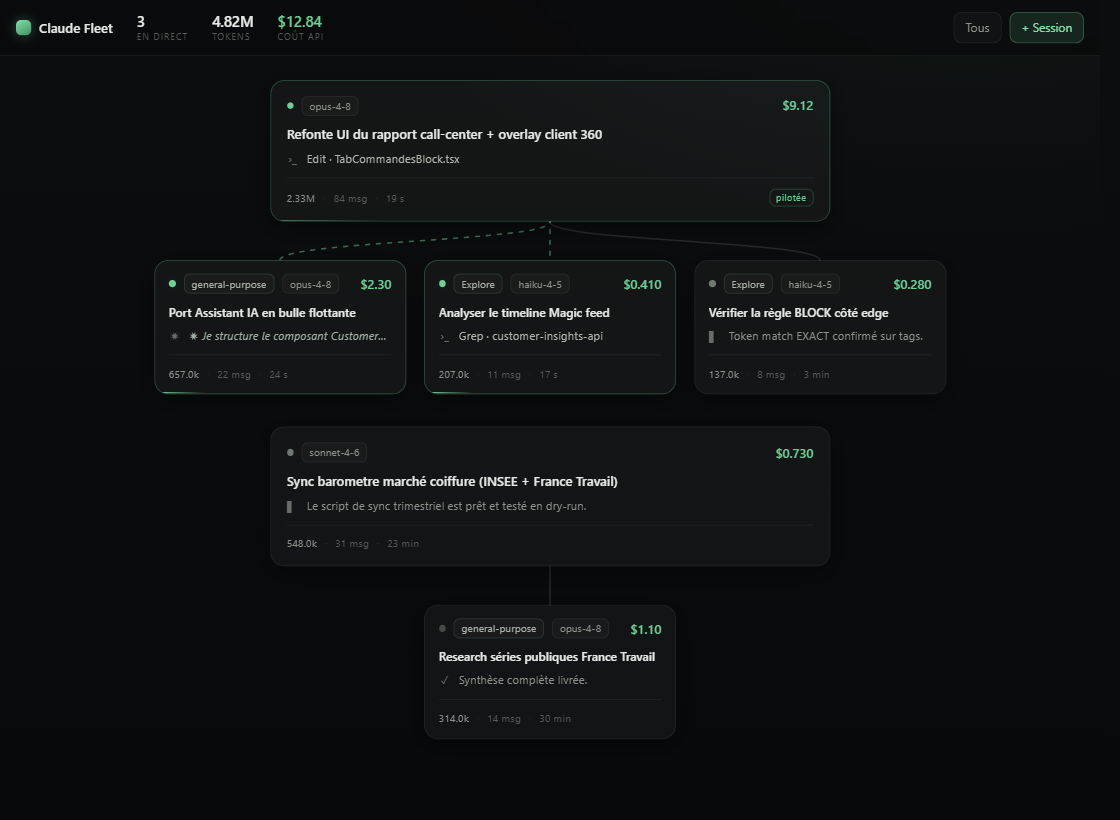
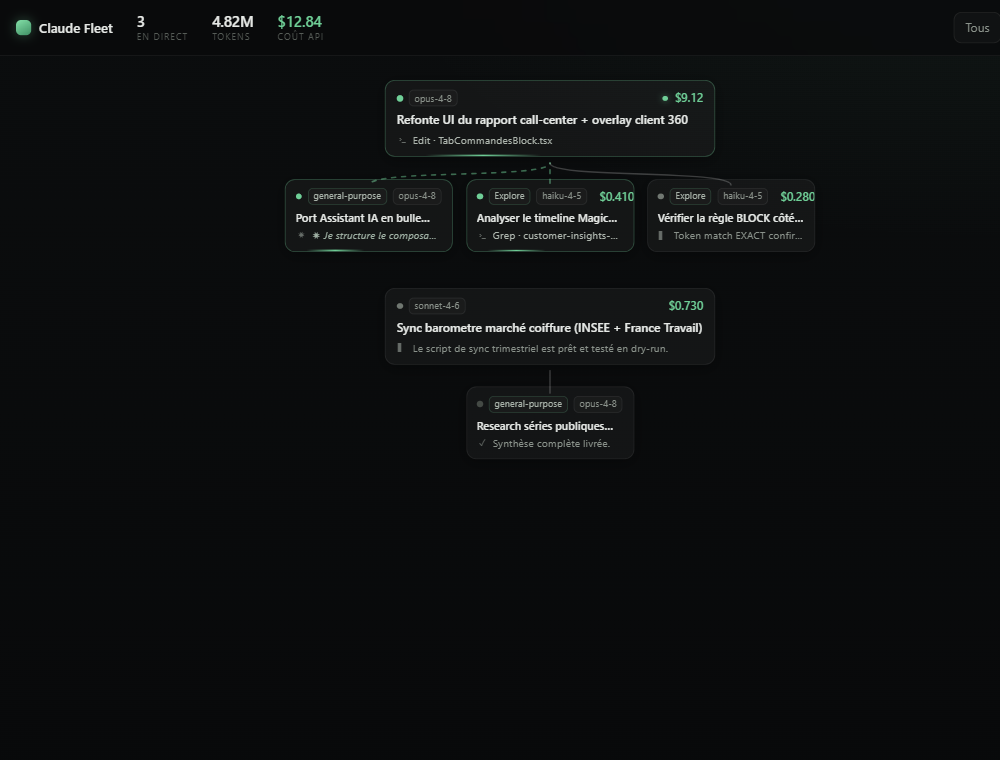
feat: bulles compactes + arbre d'agents complet + detection live elargie
- watcher: une session visible affiche TOUT son arbre d'agents (meme anciens) -> liens parent-enfant toujours rendus
- watcher: masque les sessions terminees (>fenetre active), resume recalcule sur le visible
- liveWindow 30s -> 120s (transcript vide aux fins de tour)
- UI: bulles bcp plus petites/simples (type+cout+titre+activite), tokens/temps deplaces vers le drawer, point 'pilotee' discret
- connecteurs plus lisibles

diff --git a/media/style.css b/media/style.css
@@ -91,75 +91,76 @@ button.primary:hover { background: rgba(111, 207, 151, 0.2); border-color: rgba(
 #stage::-webkit-scrollbar { width: 9px; }
 #stage::-webkit-scrollbar-thumb { background: rgba(255,255,255,0.06); border-radius: 6px; }
 #links { position: absolute; top: 0; left: 0; pointer-events: none; z-index: 1; }
-#bubbles { position: relative; z-index: 2; display: flex; flex-direction: column; gap: var(--s6); }
+#bubbles { position: relative; z-index: 2; display: flex; flex-direction: column; gap: 36px; }
 
-.group { display: flex; flex-direction: column; align-items: center; gap: 38px; }
+.group { display: flex; flex-direction: column; align-items: center; gap: 22px; }
 .group-head { display: flex; justify-content: center; width: 100%; }
-.group-agents { display: flex; flex-wrap: wrap; gap: var(--s4) 18px; justify-content: center; width: 100%; }
+.group-agents { display: flex; flex-wrap: wrap; gap: 12px 13px; justify-content: center; width: 100%; }
 .group-agents:empty { display: none; }
 
-/* ---------- Bubble ---------- */
+/* ---------- Bubble (compact) ---------- */
 .bubble {
-  position: relative; border-radius: var(--radius);
+  position: relative; border-radius: var(--radius-sm);
   border: 1px solid var(--border);
   background: var(--surface-2);
-  box-shadow: var(--shadow);
-  padding: 15px 16px; cursor: pointer;
-  transition: border-color 0.18s var(--ease), background 0.18s var(--ease), transform 0.18s var(--ease);
-  animation: enter 0.34s var(--ease) backwards;
+  box-shadow: 0 3px 14px rgba(0, 0, 0, 0.32);
+  padding: 9px 11px; cursor: pointer;
+  transition: border-color 0.16s var(--ease), background 0.16s var(--ease);
+  animation: enter 0.3s var(--ease) backwards;
   overflow: hidden;
 }
 .bubble:hover { background: var(--surface-hover); border-color: var(--border-2); }
-.bubble.leaving { animation: leave 0.26s ease forwards; pointer-events: none; }
-.bubble.session { width: min(560px, 100%); }
-.bubble.agent { width: 252px; padding: 13px 14px; }
+.bubble.leaving { animation: leave 0.24s ease forwards; pointer-events: none; }
+.bubble.session { width: min(330px, 100%); }
+.bubble.agent { width: 168px; padding: 8px 10px; }
 
 /* live emphasis — the only place the accent glows */
-.bubble.live-emph { border-color: rgba(111, 207, 151, 0.28); }
+.bubble.live-emph { border-color: rgba(111, 207, 151, 0.3); }
 .bubble.live-emph::after {
   content: ""; position: absolute; inset: -1px; border-radius: inherit; pointer-events: none;
-  box-shadow: inset 0 0 0 1px rgba(111, 207, 151, 0.12), 0 0 22px -6px rgba(111, 207, 151, 0.3);
+  box-shadow: 0 0 16px -5px rgba(111, 207, 151, 0.32);
 }
 
-.b-top { display: flex; align-items: center; gap: var(--s2); margin-bottom: 10px; min-height: 18px; }
-.dot { width: 7px; height: 7px; border-radius: 50%; flex: none; }
+.b-top { display: flex; align-items: center; gap: 6px; margin-bottom: 5px; min-height: 15px; }
+.dot { width: 6px; height: 6px; border-radius: 50%; flex: none; }
 .dot.live { background: var(--live); box-shadow: 0 0 0 0 rgba(111,207,151,0.5); animation: pulse 2s infinite; }
 .dot.idle { background: var(--idle); }
 .dot.done { background: var(--done); }
 
 .chip {
-  font-size: 10px; padding: 2px 7px; border-radius: 6px;
+  font-size: 9px; padding: 1px 5px; border-radius: 5px;
   border: 1px solid var(--border); color: var(--muted); white-space: nowrap;
   background: var(--surface); letter-spacing: 0.1px;
 }
 .chip.model { color: var(--muted); font-variant-numeric: tabular-nums; }
-.chip.agenttype { color: #a9b3aa; border-color: rgba(111,207,151,0.18); }
+.chip.agenttype { color: #a9b3aa; border-color: rgba(111,207,151,0.2); }
 .b-spacer { flex: 1; }
-.b-cost { font-variant-numeric: tabular-nums; font-weight: 600; color: var(--green); font-size: 13px; letter-spacing: -0.2px; }
+.managed-dot { width: 5px; height: 5px; border-radius: 50%; background: var(--green); box-shadow: 0 0 6px rgba(111,207,151,0.55); flex: none; margin-right: 1px; }
+.b-cost { font-variant-numeric: tabular-nums; font-weight: 600; color: var(--green); font-size: 12px; letter-spacing: -0.2px; }
 .b-cost.approx::before { content: "≈"; opacity: 0.6; margin-right: 1px; font-weight: 500; }
 
 .b-title {
-  font-weight: 600; font-size: 13px; line-height: 1.35; margin: 0 0 7px; color: var(--text);
+  font-weight: 600; font-size: 12px; line-height: 1.32; margin: 0 0 4px; color: var(--text);
   display: -webkit-box; -webkit-line-clamp: 2; -webkit-box-orient: vertical; overflow: hidden;
 }
-.bubble.agent .b-title { font-size: 12px; }
+.bubble.agent .b-title { font-size: 11px; -webkit-line-clamp: 1; margin-bottom: 3px; }
 
-.b-activity { display: flex; align-items: center; gap: var(--s2); color: var(--muted); font-size: 11.5px; min-height: 16px; }
-.b-activity .act-ico { flex: none; opacity: 0.7; width: 12px; text-align: center; }
+.b-activity { display: flex; align-items: center; gap: 5px; color: var(--muted); font-size: 10.5px; min-height: 14px; }
+.b-activity .act-ico { flex: none; opacity: 0.7; width: 11px; text-align: center; font-size: 9px; }
 .b-activity .act-text { overflow: hidden; text-overflow: ellipsis; white-space: nowrap; flex: 1; }
 .b-activity.thinking .act-text { color: #9fb0a4; font-style: italic; }
 .b-activity.tool .act-text { color: #aeb6ae; }
 
 .b-foot {
-  display: flex; align-items: center; gap: var(--s2); margin-top: 11px;
-  padding-top: 10px; border-top: 1px solid var(--border);
-  font-size: 10.5px; color: var(--faint);
+  display: flex; align-items: center; gap: 6px; margin-top: 7px;
+  padding-top: 6px; border-top: 1px solid var(--border);
+  font-size: 9.5px; color: var(--faint);
 }
 .b-foot .tok { font-variant-numeric: tabular-nums; color: var(--muted); }
 .b-foot .sep { opacity: 0.35; }
 .b-foot .badge-managed {
-  margin-left: auto; color: var(--green); border: 1px solid rgba(111,207,151,0.28);
-  padding: 1px 6px; border-radius: 6px; font-size: 9.5px; letter-spacing: 0.2px;
+  margin-left: auto; color: var(--green); border: 1px solid rgba(111,207,151,0.3);
+  padding: 0 5px; border-radius: 5px; font-size: 8.5px; letter-spacing: 0.2px;
 }
 
 /* working: thin progress sliver, green, subtle */
@@ -172,8 +173,8 @@ button.primary:hover { background: rgba(111, 207, 151, 0.2); border-color: rgba(
 }
 
 /* ---------- SVG connectors ---------- */
-.link { fill: none; stroke: rgba(255,255,255,0.12); stroke-width: 1.5; stroke-linecap: round; transition: stroke 0.2s; }
-.link.live { stroke: var(--green-line); stroke-width: 1.6; stroke-dasharray: 4 7; animation: flow 1.1s linear infinite; }
+.link { fill: none; stroke: rgba(255,255,255,0.22); stroke-width: 1.4; stroke-linecap: round; transition: stroke 0.2s; }
+.link.live { stroke: var(--green-line); stroke-width: 1.6; stroke-dasharray: 4 6; animation: flow 1.1s linear infinite; }
 
 /* ---------- Empty ---------- */
 .empty { position: absolute; inset: 0; display: flex; flex-direction: column; align-items: center; justify-content: center; gap: var(--s2); text-align: center; }

diff --git a/src/watcher.ts b/src/watcher.ts
@@ -114,8 +114,18 @@ export class FleetWatcher {
         if (!e.isFile() || !e.name.endsWith(".jsonl")) continue;
         const filePath = path.join(proj, e.name);
         const sessionId = e.name.replace(/\.jsonl$/, "");
+
+        // Is this session recent enough to display? (gates whether we pull its agents)
+        let sessionRecent = false;
+        try {
+          sessionRecent = fs.statSync(filePath).mtimeMs >= activeCutoff;
+        } catch {
+          continue;
+        }
         this.consider(filePath, "session", sessionId, null, undefined, undefined, activeCutoff);
 
+        // A visible session shows its FULL agent tree, regardless of each agent's age.
+        if (!sessionRecent) continue;
         const subDir = path.join(proj, sessionId, "subagents");
         if (fs.existsSync(subDir)) {
           let subs: string[] = [];
@@ -128,7 +138,7 @@ export class FleetWatcher {
             const agentPath = path.join(subDir, sn);
             const agentId = sn.replace(/\.jsonl$/, "").replace(/^agent-/, "");
             const meta = readMeta(path.join(subDir, sn.replace(/\.jsonl$/, ".meta.json")));
-            this.consider(agentPath, "agent", sessionId, sessionId, agentId, meta, activeCutoff);
+            this.consider(agentPath, "agent", sessionId, sessionId, agentId, meta, Number.NEGATIVE_INFINITY);
           }
         }
       }
@@ -250,11 +260,6 @@ export class FleetWatcher {
   private emit(): void {
     const managed = this.opts.managedSessionIds();
     const nodes: FleetNode[] = [];
-    let totalCost = 0;
-    let totalTokens = 0;
-    let liveCount = 0;
-    let sessionCount = 0;
-    let agentCount = 0;
 
     for (const t of this.trackers.values()) {
       const agg = t.agg;
@@ -262,7 +267,6 @@ export class FleetWatcher {
 
       const status = this.statusOf(t.mtimeMs, agg.lastTs);
       const cost = this.opts.pricing.cost(agg.model, agg.tokens);
-      const tokens = sumTokens(agg.tokens);
       const isAgent = t.kind === "agent";
       const folder = (agg.cwd || "").split(/[\\/]/).filter(Boolean).pop() || "";
 
@@ -304,17 +308,30 @@ export class FleetWatcher {
         approx: agg.capped,
       };
       nodes.push(node);
-      totalCost += cost.total;
-      totalTokens += tokens;
-      if (status === "live") liveCount++;
-      if (isAgent) agentCount++;
-      else sessionCount++;
     }
 
-    const sessionIds = new Set(nodes.filter((n) => n.kind === "session").map((n) => n.id));
-    const filtered = nodes.filter(
-      (n) => n.kind === "session" || sessionIds.has(n.parentId || "") || n.messageCount > 0
+    // Show recent (non-"done") sessions + their FULL agent tree (any agent age).
+    const shownSessionIds = new Set(
+      nodes.filter((n) => n.kind === "session" && n.status !== "done").map((n) => n.id)
     );
+    const filtered = nodes.filter(
+      (n) =>
+        (n.kind === "session" && shownSessionIds.has(n.id)) ||
+        (n.kind === "agent" && shownSessionIds.has(n.parentId || ""))
+    );
+
+    let totalCost = 0;
+    let totalTokens = 0;
+    let liveCount = 0;
+    let sessionCount = 0;
+    let agentCount = 0;
+    for (const n of filtered) {
+      totalCost += n.cost.total;
+      totalTokens += sumTokens(n.tokens);
+      if (n.status === "live") liveCount++;
+      if (n.kind === "agent") agentCount++;
+      else sessionCount++;
+    }
 
     const summary: FleetSummary = { totalCost, totalTokens, liveCount, sessionCount, agentCount };
     this.opts.onState({

diff --git a/media/main.js b/media/main.js
@@ -95,15 +95,11 @@
         ${node.kind === "agent" ? '<span class="chip agenttype"></span>' : ""}
         <span class="chip model"></span>
         <span class="b-spacer"></span>
+        <span class="managed-dot hidden" title="Pilotée par Fleet"></span>
         <span class="b-cost" data-val="0">$0.000</span>
       </div>
       <div class="b-title"></div>
       <div class="b-activity"><span class="act-ico"></span><span class="act-text"></span></div>
-      <div class="b-foot">
-        <span class="tok" data-val="0">0</span>
-        <span class="sep">·</span><span class="msgs"></span>
-        <span class="sep">·</span><span class="seen"></span>
-      </div>
       <div class="work-bar"></div>`;
     el.addEventListener("click", () => openDrawer(node.id));
     return el;
@@ -126,24 +122,12 @@
     el.querySelector(".act-ico").textContent = actIcon(node.status === "done" ? "done" : node.activityKind);
     el.querySelector(".act-text").textContent = node.activity;
 
-    el.querySelector(".msgs").textContent = node.messageCount + " msg";
-    el.querySelector(".seen").textContent = timeAgo(node.lastTs);
-
     const costEl = el.querySelector(".b-cost");
     costEl.classList.toggle("approx", !!node.approx);
     costEl.title = node.approx ? "Coût partiel (transcript volumineux lu depuis la fin)" : "";
     tween(costEl, node.cost.total, fmtCost);
-    tween(el.querySelector(".tok"), sumTokens(node.tokens), fmtTokens);
 
-    let badge = el.querySelector(".badge-managed");
-    if (node.managed && node.kind === "session") {
-      if (!badge) {
-        badge = document.createElement("span");
-        badge.className = "badge-managed";
-        badge.textContent = "pilotée";
-        el.querySelector(".b-foot").appendChild(badge);
-      }
-    } else if (badge) badge.remove();
+    el.querySelector(".managed-dot").classList.toggle("hidden", !(node.managed && node.kind === "session"));
   }
 
   function ensureBubble(node) {
@@ -427,12 +411,6 @@
 
   window.addEventListener("resize", () => requestAnimationFrame(drawLinks));
   stageEl.addEventListener("scroll", () => requestAnimationFrame(drawLinks));
-  setInterval(() => {
-    for (const [id, el] of bubbleCache.entries()) {
-      const n = nodeById(id);
-      if (n) el.querySelector(".seen").textContent = timeAgo(n.lastTs);
-    }
-  }, 5000);
 
   vscode.postMessage({ type: "ready" });
 })();

diff --git a/src/extension.ts b/src/extension.ts
@@ -79,7 +79,7 @@ function startWatcher(context: vscode.ExtensionContext): void {
   watcher = new FleetWatcher({
     projectsDir,
     activeWindowMinutes: cfg.get<number>("activeWindowMinutes", 180),
-    liveWindowSeconds: cfg.get<number>("liveWindowSeconds", 30),
+    liveWindowSeconds: cfg.get<number>("liveWindowSeconds", 120),
     pollIntervalMs: cfg.get<number>("pollIntervalMs", 1500),
     maxInitialBytes: 12 * 1024 * 1024,
     pricing,